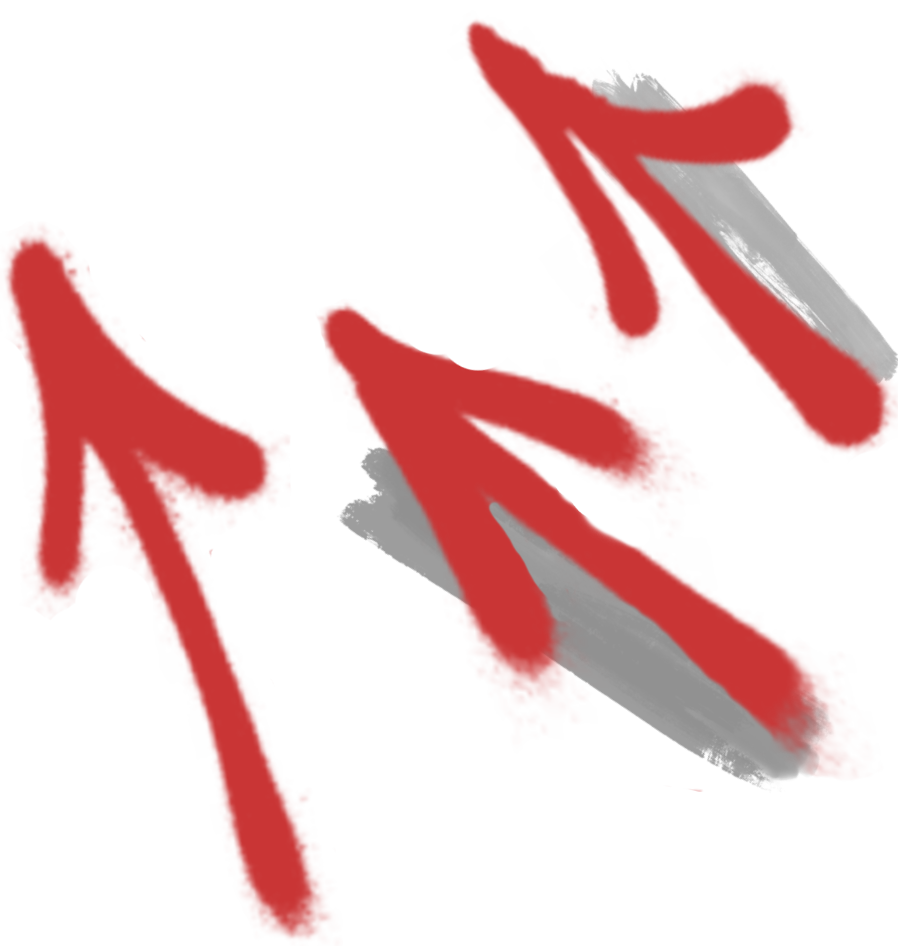
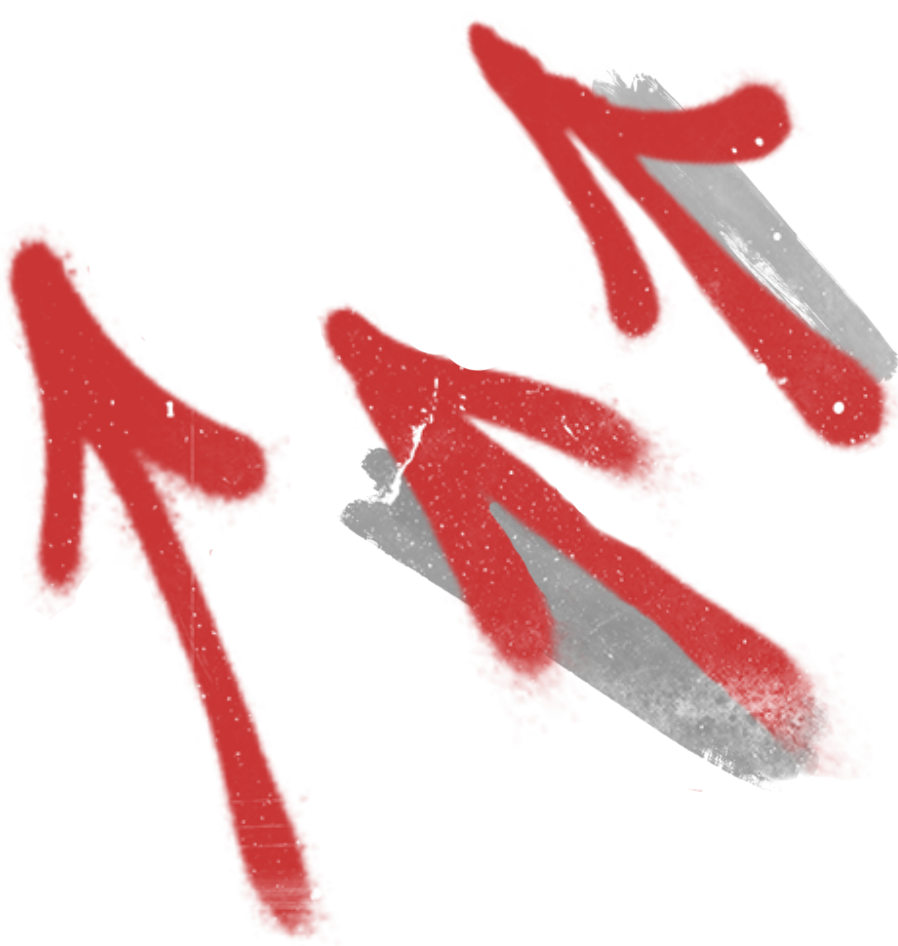
Version 7: Huge aesthetic redesign and added all dmca-taken vods

diff --git a/src/Vod.jsx b/src/Vod.jsx
@@ -3,6 +3,8 @@ import Header from "./components/Header";
 import styles from "./styles/vod.module.css";
 import thumbnail from "./utils/thumbnail";
 import animeQuestion from "./files/img/animeQuestion.png";
+import exclamations from "./files/img/exclamations.png";
+import crown from "./files/img/crown.png";
 // Vod list
 import vods from "./files/vods.json";
 
@@ -35,7 +37,9 @@ export default function Vod() {
                 :
                 <>
                     <div className={styles.videoContainer}>
-                        {vodToPlay.isYoutube === 0 ? <a className="driveSender" href={`https://drive.google.com/file/d/${vodToPlay.videoId}/preview`} /> : ""}
+                        <img src={exclamations} className={styles.exclamations} />
+                        <img src={crown} className={styles.crown} />
+                        {vodToPlay.isYoutube === 0 ? <a className="driveSender" href={`https://drive.google.com/file/d/${vodToPlay.videoId}/preview`} target="_blank" /> : ""}
                         <iframe
                             allow="accelerometer; autoplay; clipboard-write; encrypted-media; gyroscope; picture-in-picture; web-share"
                             allowFullScreen="true"
@@ -45,7 +49,7 @@ export default function Vod() {
                                 : "https://www.youtube.com/embed/" + vodToPlay.videoId}
                             title={vodToPlay.title}
                         />
-                        
+
                         <div className={`${styles.vodToPlayInfo} vodInfo`}>
                             <h1>{vodToPlay.title}</h1>
                             <p>{vodToPlay.description}</p>
@@ -53,16 +57,6 @@ export default function Vod() {
                     </div>
 
                     <div className={styles.switchVods}>
-                        {vodList[+vodId - 1] ?
-                            <div className={styles.selectVod}>
-                                <h2>VOD anterior</h2>
-                                {
-                                    vodList[+vodId - 1].isYoutube === 1 ?
-                                        thumbnail(vodList[+vodId - 1].title, `https://img.youtube.com/vi/${vodList[+vodId - 1].videoId}/mqdefault.jpg`, +vodId - 1, vodList[+vodId - 1].isYoutube, "100%")
-                                        : thumbnail(vodList[+vodId - 1].title, vodList[+vodId - 1].thumbnail, +vodId - 1, vodList[+vodId - 1].isYoutube, "100%")
-                                }
-                            </div>
-                            : ""}
                         {vodList[+vodId + 1] ?
                             <div className={styles.selectVod}>
                                 <h2>Siguiente VOD</h2>
@@ -70,6 +64,16 @@ export default function Vod() {
                                     vodList[+vodId + 1].isYoutube === 1 ?
                                         thumbnail(vodList[+vodId + 1].title, `https://img.youtube.com/vi/${vodList[+vodId + 1].videoId}/mqdefault.jpg`, +vodId + 1, vodList[+vodId + 1].isYoutube, "100%")
                                         : thumbnail(vodList[+vodId + 1].title, vodList[+vodId + 1].thumbnail, +vodId + 1, vodList[+vodId + 1].isYoutube, "100%")
+                                }
+                            </div>
+                            : ""}
+                        {vodList[+vodId - 1] ?
+                            <div className={styles.selectVod}>
+                                <h2>VOD anterior</h2>
+                                {
+                                    vodList[+vodId - 1].isYoutube === 1 ?
+                                        thumbnail(vodList[+vodId - 1].title, `https://img.youtube.com/vi/${vodList[+vodId - 1].videoId}/mqdefault.jpg`, +vodId - 1, vodList[+vodId - 1].isYoutube, "100%")
+                                        : thumbnail(vodList[+vodId - 1].title, vodList[+vodId - 1].thumbnail, +vodId - 1, vodList[+vodId - 1].isYoutube, "100%")
                                 }
                             </div>
                             : ""}

diff --git a/src/About.jsx b/src/About.jsx
@@ -4,6 +4,7 @@ import maintainer from "./utils/maintainer";
 // Images owo
 import kimu from "./files/img/kimu.png";
 import naneko from "./files/img/naneko.png";
+import questionmark from "./files/img/questionmark.png";
 
 export default function About() {
     document.title = "MadVods | About";
@@ -13,8 +14,9 @@ export default function About() {
 
         <div className="container">
             <div className={styles.aboutContainer}>
-                <h1>Sobre Mad Vods</h1>
-                <p>
+                <img className={styles.question} src={questionmark} />
+                <h2>Sobre Mad Vods</h2>
+                <span>
                     Mad Vods fue creado ya que las discográficas no tienen nada
                     más divertido que hacer por las tardes que tumbar los directos
                     resubidos de Rubius (y cualquier otra persona realmente) porque
@@ -26,13 +28,11 @@ export default function About() {
                     Esta página es solamente front end, todos los vídeos están guardados
                     en Google Drive, puedes verlos cómodamente y tenerlos listados en orden
                     desde aquí, obviamente sin tener que pagar nada ni ver anuncios, puedes ver
-                    el código en <a href="https://github.com/notKimu/Mad-Vods">Github</a>.
-                </p>
+                    el código en <a className={styles.github} target="_blank" href="https://github.com/notKimu/Mad-Vods">Github</a>.
+                </span>
 
-                {maintainer("Kimu", "Programadora de la página web y maintainer del almacenamiento.", kimu, "#bf3e81")}
-                {maintainer("Naneko", "Responsable de la subida de los vídeos y el canal de YouTube.", naneko, "#45c0d1")}
-
-
+                {maintainer("Kimu", "Programadora de la página web y maintainer del almacenamiento.", kimu, "#bf3e81", "https://twitter.com/notK1mu")}
+                {maintainer("Naneko", "Responsable de la subida de los vídeos y el canal de YouTube.", naneko, "#45c0d1", "https://twitter.com/NanekoNya")}
             </div>
         </div>
     </>)

diff --git a/src/App.jsx b/src/App.jsx
@@ -2,6 +2,7 @@ import { useEffect, useState } from "react";
 import Header from "./components/Header";
 import thumbnail from "./utils/thumbnail";
 import styles from "./styles/app.module.css";
+import tape from "./files/img/tape.png";
 import graffitiArrows from "./files/img/graffitiArrows.png";
 // Vod list
 import vods from "./files/vods.json";
@@ -62,11 +63,12 @@ function MainPage() {
 
             <div className="container">
                 <div className={styles.lastVodContainer}>
+                    <img className={styles.tape} src={tape} />
                     <img className={styles.graffitiArrows} src={graffitiArrows} />
 
                     <h1>Último VOD</h1>
                     <div className={styles.lastVodPlayer}>
-                        {lastVod[0].isYoutube === 0 ? <a className="driveSender" href={`https://drive.google.com/file/d/${lastVod[0].videoId}/preview`} /> : ""}
+                        {lastVod[0].isYoutube === 0 ? <a className="driveSender" href={`https://drive.google.com/file/d/${lastVod[0].videoId}/preview`} target="_blank" /> : ""}
                         <iframe
                             className="vod"
                             src={lastVod[0].isYoutube === 0 ?

diff --git a/src/utils/maintainer.jsx b/src/utils/maintainer.jsx
@@ -1,13 +1,18 @@
 import styles from "./maintainer.module.css";
 
-export default function maintainer(name, description, image, accentColor) {
-    return (<>
-        <div className={styles.aboutMaintainer} style={{border: `1px solid ${accentColor}`, boxShadow: `inset 0 0 50px 1px ${accentColor}48`}}>
+export default function maintainer(name, description, image, accentColor, link) {
+    return (
+        <a
+            className={styles.aboutMaintainer}
+            href={link}
+            style={{ border: `1px solid ${accentColor}`, boxShadow: `inset 0 0 50px 1px ${accentColor}48` }}
+            target="_blank"
+        >
             <img className={styles.pfp} src={image} />
             <div className={styles.textMaintainer}>
                 <h1>{name}</h1>
                 <p>{description}</p>
             </div>
-        </div>
-    </>)
+        </a>
+    )
 }

diff --git a/src/styles/about.module.css b/src/styles/about.module.css
@@ -1,5 +1,7 @@
 .aboutContainer {
     width: 70%;
+    position: relative;
+
     display: flex;
     flex-direction: column;
     gap: 1rem;
@@ -11,15 +13,22 @@
     padding: 1rem;
 }
 
-.aboutContainer h1 {
+.question {
+    width: 15%;
+    position: absolute;
+    top: -3%;
+    right: -7%;
+}
+
+.aboutContainer h2 {
     font-size: 3rem;
 }
 
-.aboutContainer p {
+.aboutContainer span {
     font-size: 1.2rem;
 }
 
-.aboutContainer a {
+.github {
     color: var(--accent-color);
     text-decoration: underline;
 }
@@ -30,5 +39,9 @@
 @media screen and (max-width: 700px) {
     .aboutContainer {
         width: 100%;
+    }
+    .question {
+        width: 20%;
+        top: -1%;
     }
 }

diff --git a/src/styles/vod.module.css b/src/styles/vod.module.css
@@ -23,7 +23,8 @@
 }
 
 .selectVod {
-    width: 100%;
+    width: 50%;
+
     display: flex;
     flex-direction: column;
     gap: 1rem;
@@ -33,6 +34,22 @@
     border: 1px solid rgb(42, 42, 42);
     border-radius: 1rem;
     padding: 1rem;
+}
+
+.exclamations {
+    min-width: 60px;
+    width: 10%;
+    position: absolute;
+    bottom: -8%;
+    left: -3%;
+}
+
+.crown {
+    min-width: 40px;
+    width: 8%;
+    position: absolute;
+    top: -8%;
+    right: -1.5%;
 }
 
 
@@ -49,5 +66,8 @@
 
     .switchVods {
         gap: 1rem;
+    }
+    .crown {
+        top: -3%;
     }
 }

diff --git a/src/styles/app.module.css b/src/styles/app.module.css
@@ -15,6 +15,21 @@
     padding: 1rem;
 }
 
+.tape {
+    min-height: 50px;
+    min-width: 60px;
+    width: 10%;
+    margin-top: 5px;
+    position: absolute;
+    top: -5%;
+    left: -2%;
+    z-index: 0;
+}
+
+.lastVodContainer h1 {
+    z-index: 1;
+}
+
 .graffitiArrows {
     width: 15%;
     position: absolute;
@@ -120,9 +135,5 @@
 
     .singleVod {
         width: 45%;
-    }
-
-    .vodTitleContainer p {
-        font-size: 3vw;
     }
 }

diff --git a/src/utils/maintainer.module.css b/src/utils/maintainer.module.css
@@ -3,6 +3,7 @@
     gap: 1rem;
     border-radius: 1rem;
     padding: .5rem;
+    text-decoration: none;
 }
 
 .pfp {
@@ -15,9 +16,15 @@
     flex-direction: column;
     gap: .5rem;
     overflow: scroll;
+    text-decoration: none;
 }
 
 
+/* HOVER */
+.aboutMaintainer:hover {
+    transform: scale(1.02);
+    filter: drop-shadow(0 0 5px #ffffff32);
+}
 
 /* RESPONSIVE */
 @media screen and (max-width: 700px) {

diff --git a/src/utils/thumbnail.module.css b/src/utils/thumbnail.module.css
@@ -8,7 +8,7 @@
 }
 
 .locked {
-    width: 7%;
+    width: 10%;
     position: absolute;
     top: 0;
     right: 0;
@@ -84,4 +84,17 @@
 
 .singleVod:hover .locked {
     display: none;
+}
+
+/* RESPONSIVE */
+@media screen and (max-width: 600px) {
+    .locked {
+        width: 6vw;
+    }
+}
+
+@media screen and (max-width: 800px) {
+    .vodTitleContainer p {
+        font-size: 3vw;
+    }
 }

diff --git a/src/components/header.module.css b/src/components/header.module.css
@@ -112,7 +112,7 @@
 
 
 .filler {
-    height: 5rem;
+    height: 4.4rem;
     opacity: 0;
 }
 
@@ -124,7 +124,7 @@
         background-size: 200%;
     }
     .filler {
-        height: 6rem;
+        height: 5.5rem;
     }
 }
 

diff --git a/src/styles/globals.css b/src/styles/globals.css
@@ -28,10 +28,12 @@ body {
 }
 
 .container {
+    max-width: 100vw;
     display: flex;
     flex-direction: column;
     align-items: center;
     padding: 2rem;
+    overflow: hidden;
 }
 
 /* VOD THINGYS */
